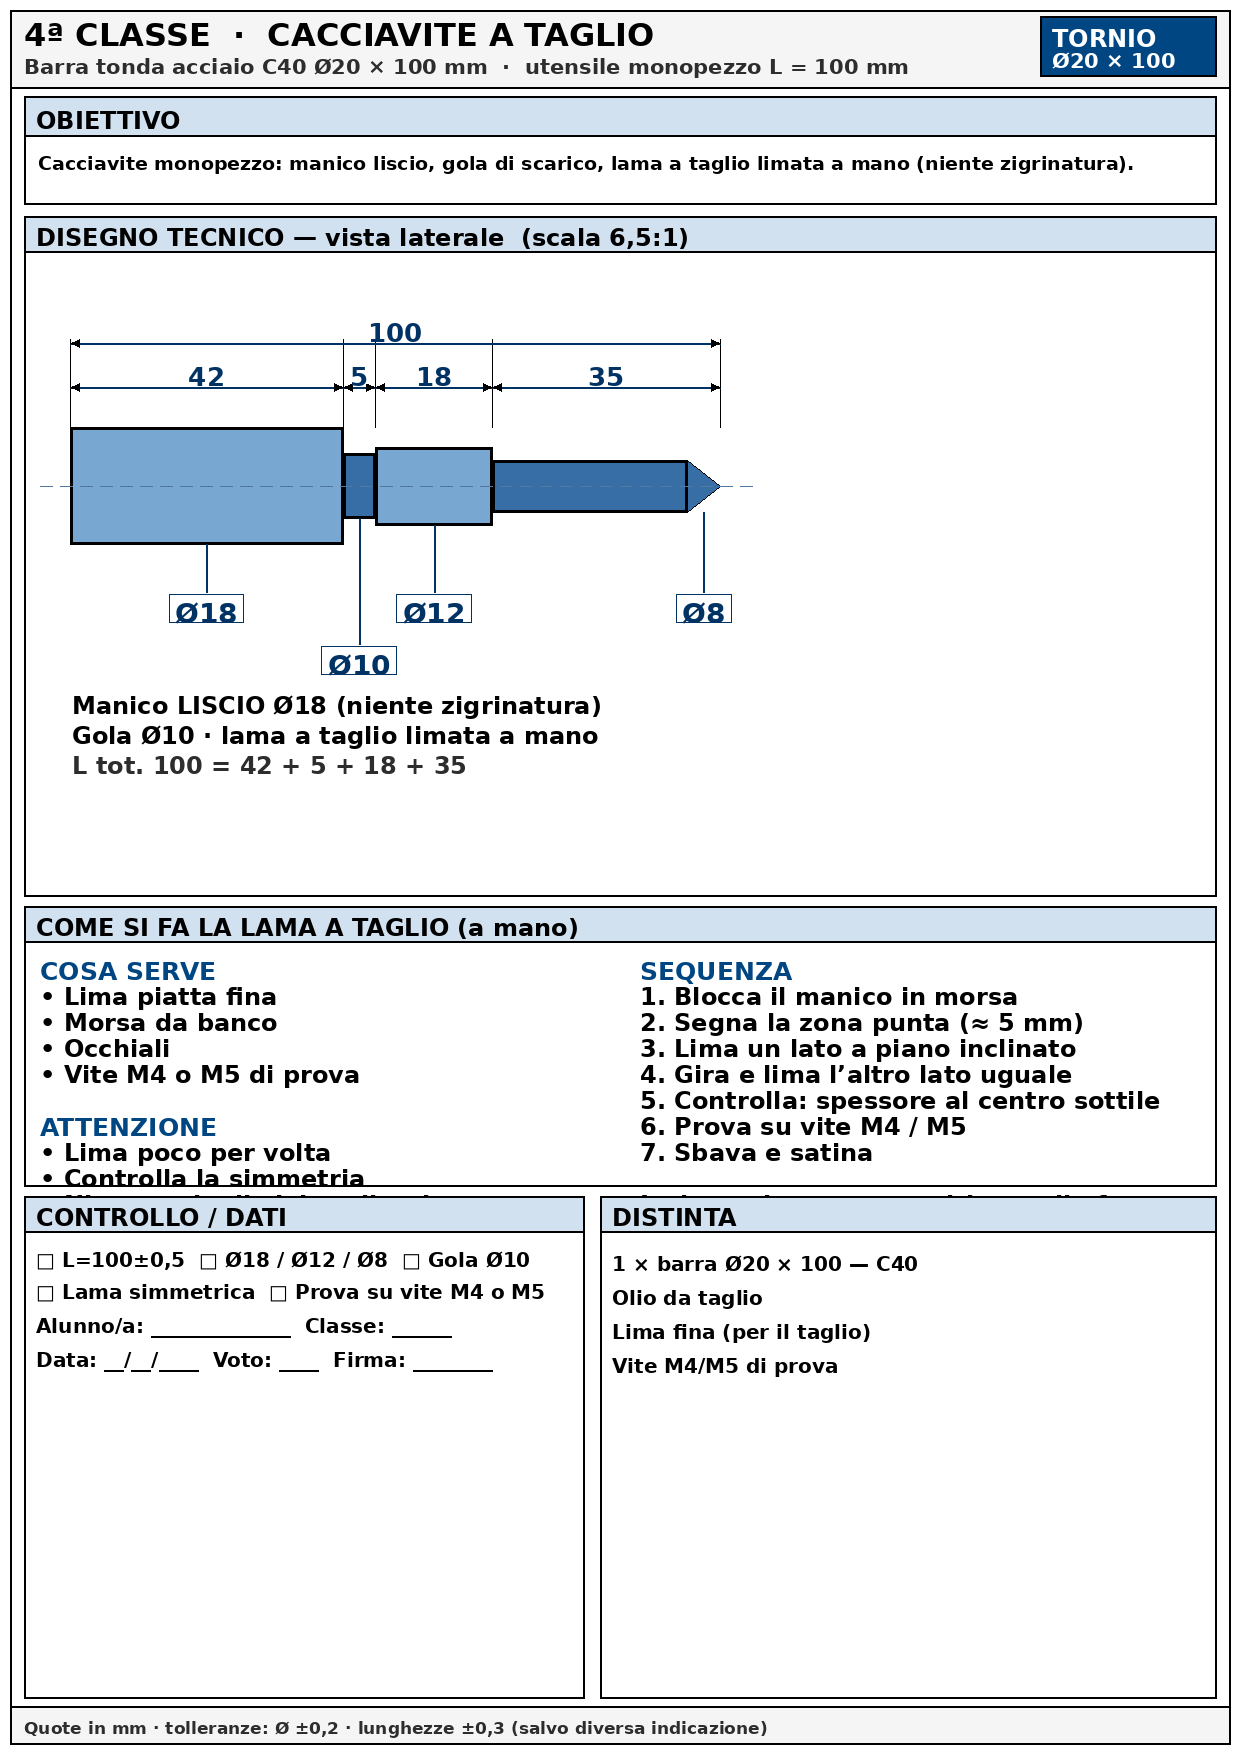
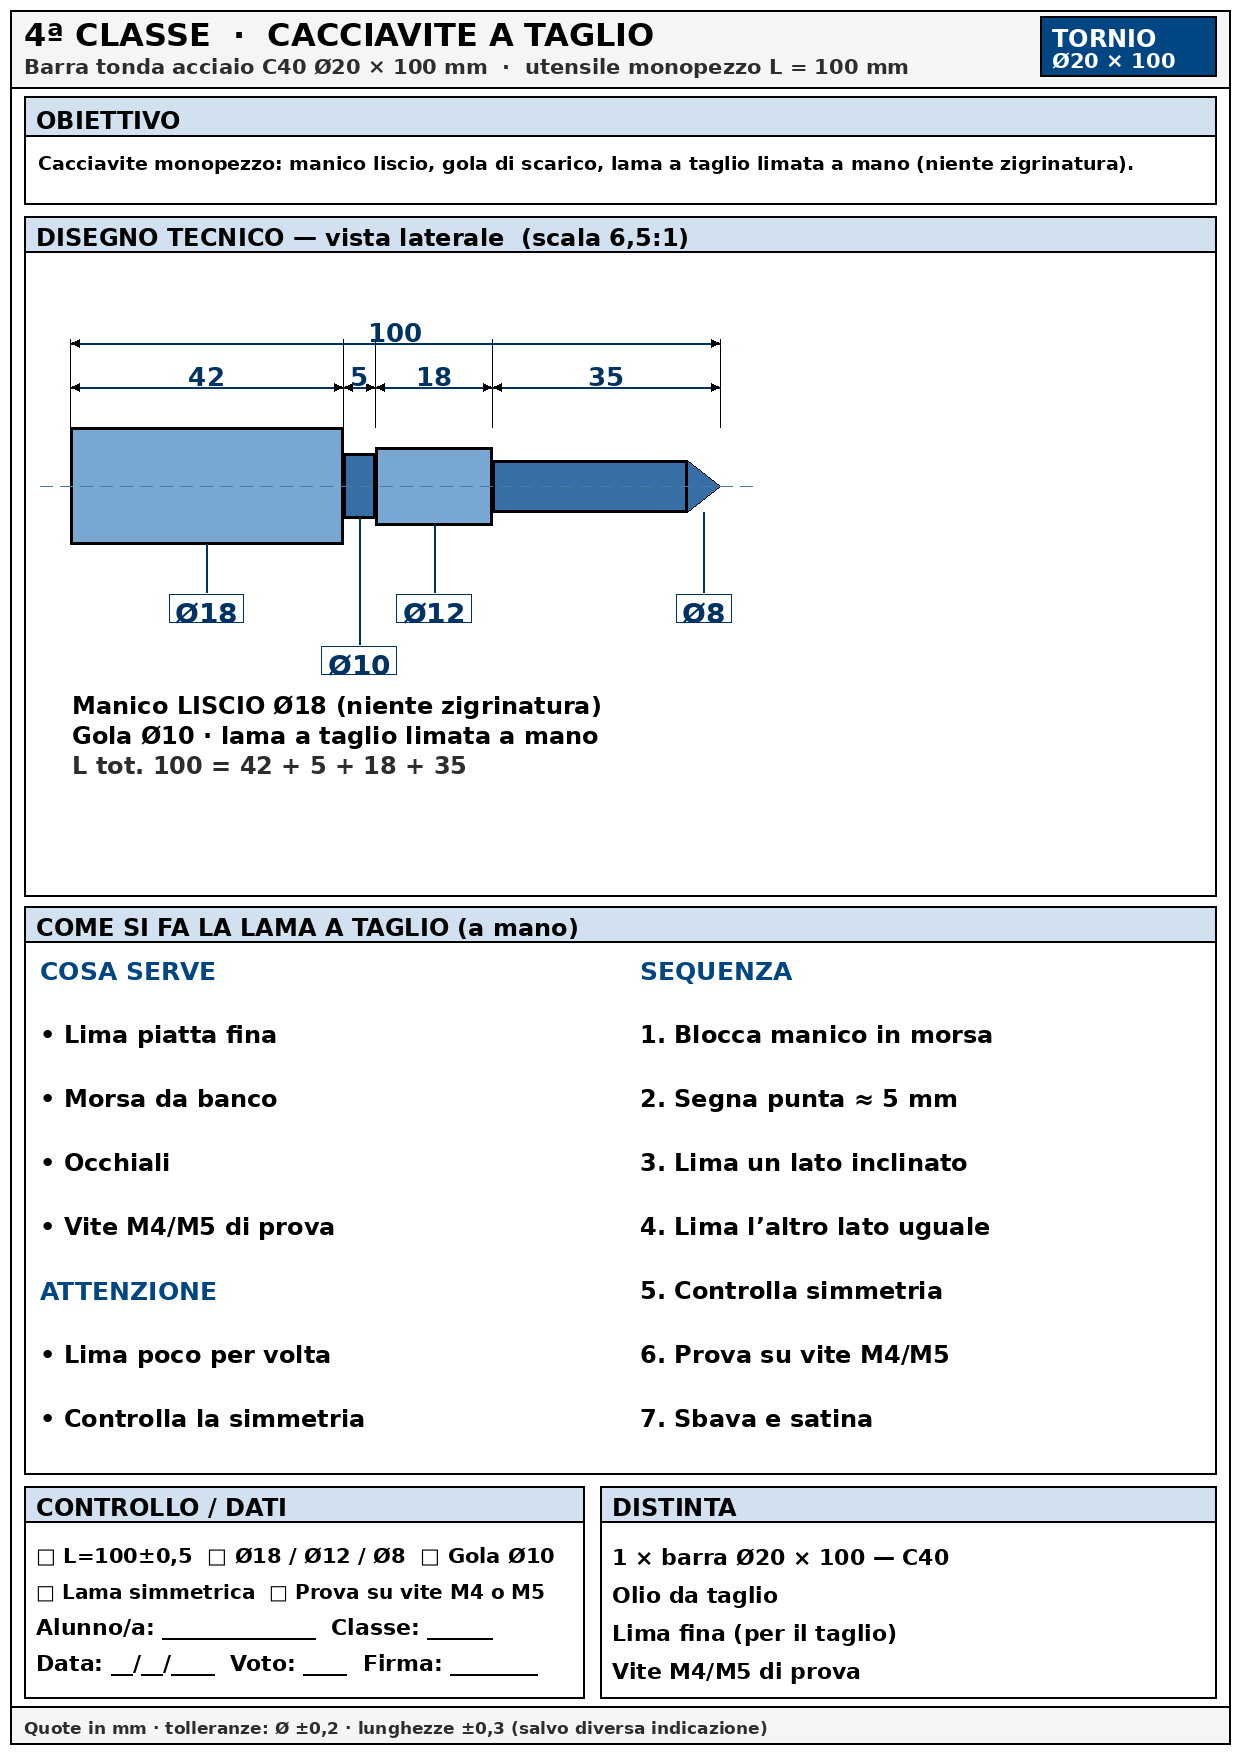
Fix layout cacciavite: pannello lama non taglia più CONTROLLO/DISTINTA.
Diametri del perno spostati sopra l’asse.

Changed region(s): [[0.0, 0.5542, 0.9806, 0.9544], [0.1839, 0.9236, 0.2452, 0.9544]]

diff --git a/progetti-ferro-gallery/generate_ferro.py b/progetti-ferro-gallery/generate_ferro.py
@@ -441,14 +441,15 @@ def make_2a():
     dim_h(d, xs[2][0], xs[2][0] + xs[2][1], q1, "20")
     dim_h(d, ox, end_x, q0, "70")
 
-    # diametri dentro
+    # diametri DENTRO, SOPRA la linea d’asse (niente overlap)
     for (x0s, ww, hh, L, Dia, col), lab in zip(xs, ["Ø18", "Ø14", "Ø10"]):
         tw = d.textlength(lab, font=F16)
         cx = x0s + ww / 2
-        bg = WHITE if Dia < 18 else col
-        fc = DIM_COL if Dia < 18 else WHITE
-        d.rectangle([cx - tw / 2 - 6, mid - 16, cx + tw / 2 + 6, mid + 16], fill=bg)
-        d.text((cx - tw / 2, mid - 12), lab, fill=fc, font=F16)
+        ty = mid - 28  # sopra l’asse
+        bg = WHITE
+        fc = DIM_COL
+        d.rectangle([cx - tw / 2 - 6, ty - 4, cx + tw / 2 + 6, ty + 24], fill=bg, outline=DIM_COL, width=1)
+        d.text((cx - tw / 2, ty), lab, fill=fc, font=F16)
 
     def badge(cx, cy, n, bg):
         d.ellipse([cx - 18, cy - 18, cx + 18, cy + 18], fill=bg, outline=BLACK, width=3)
@@ -753,58 +754,60 @@ def make_4a():
     text_in_box(d, ox, min(ny + 30, max_note_y - 60), W - 80 - ox, 28, "Gola Ø10 · lama a taglio limata a mano", F13, BLACK, pad=2)
     text_in_box(d, ox, min(ny + 60, max_note_y - 30), W - 80 - ox, 28, "L tot. 100 = 42 + 5 + 18 + 35", F13, GRAY, pad=2)
 
-    # Limatura taglio
+    # Limatura taglio — altezza calcolata così NON taglia i pannelli sotto
     zg = draw_top + draw_h + 10
-    zg_h = 280
+    bot_reserve = 220  # spazio per CONTROLLO + DISTINTA + footer
+    zg_h = max(240, FOOT - zg - bot_reserve - 12)
     y = panel(d, 24, zg, W - 48, zg_h, "COME SI FA LA LAMA A TAGLIO (a mano)")
     col1 = [
         "COSA SERVE",
         "• Lima piatta fina",
         "• Morsa da banco",
         "• Occhiali",
-        "• Vite M4 o M5 di prova",
-        "",
+        "• Vite M4/M5 di prova",
         "ATTENZIONE",
         "• Lima poco per volta",
         "• Controlla la simmetria",
-        "• Niente spigoli vivi taglienti",
     ]
     col2 = [
         "SEQUENZA",
-        "1. Blocca il manico in morsa",
-        "2. Segna la zona punta (≈ 5 mm)",
-        "3. Lima un lato a piano inclinato",
-        "4. Gira e lima l’altro lato uguale",
-        "5. Controlla: spessore al centro sottile",
-        "6. Prova su vite M4 / M5",
+        "1. Blocca manico in morsa",
+        "2. Segna punta ≈ 5 mm",
+        "3. Lima un lato inclinato",
+        "4. Lima l’altro lato uguale",
+        "5. Controlla simmetria",
+        "6. Prova su vite M4/M5",
         "7. Sbava e satina",
-        "",
-        "La lama deve entrare dritta nella fessura.",
     ]
+    lh = max(22, (zg_h - 55) // max(len(col1), len(col2)))
     for i, ln in enumerate(col1):
-        if ln in ("COSA SERVE", "ATTENZIONE"):
-            d.text((40, y + 4 + i * 26), ln, fill=ACCENT, font=F14)
-        else:
-            d.text((40, y + 4 + i * 26), ln, fill=BLACK, font=F13)
+        yy = y + 4 + i * lh
+        if yy + 20 > zg + zg_h - 8:
+            break
+        fill = ACCENT if ln in ("COSA SERVE", "ATTENZIONE") else BLACK
+        f = F14 if ln in ("COSA SERVE", "ATTENZIONE") else F13
+        d.text((40, yy), ln, fill=fill, font=f)
     for i, ln in enumerate(col2):
-        if ln == "SEQUENZA":
-            d.text((640, y + 4 + i * 26), ln, fill=ACCENT, font=F14)
-        else:
-            d.text((640, y + 4 + i * 26), ln, fill=BLACK, font=F13)
+        yy = y + 4 + i * lh
+        if yy + 20 > zg + zg_h - 8:
+            break
+        fill = ACCENT if ln == "SEQUENZA" else BLACK
+        f = F14 if ln == "SEQUENZA" else F13
+        d.text((640, yy), ln, fill=fill, font=f)
 
-    bot = zg + zg_h + 10
+    bot = zg + zg_h + 12
     bh = FOOT - bot - 8
     y = panel(d, 24, bot, 560, bh, "CONTROLLO / DATI")
-    text_in_box(d, 32, y + 4, 540, 28, "□ L=100±0,5  □ Ø18 / Ø12 / Ø8  □ Gola Ø10", F13, BLACK, pad=4)
-    text_in_box(d, 32, y + 36, 540, 28, "□ Lama simmetrica  □ Prova su vite M4 o M5", F13, BLACK, pad=4)
-    text_in_box(d, 32, y + 70, 540, 28, "Alunno/a: ______________  Classe: ______", F13, BLACK, pad=4)
-    text_in_box(d, 32, y + 104, 540, 28, "Data: __/__/____  Voto: ____  Firma: ________", F13, BLACK, pad=4)
+    text_in_box(d, 32, y + 8, 540, 30, "□ L=100±0,5  □ Ø18 / Ø12 / Ø8  □ Gola Ø10", F13, BLACK, pad=4)
+    text_in_box(d, 32, y + 44, 540, 30, "□ Lama simmetrica  □ Prova su vite M4 o M5", F13, BLACK, pad=4)
+    text_in_box(d, 32, y + 80, 540, 30, "Alunno/a: ______________  Classe: ______", F13, BLACK, pad=4)
+    text_in_box(d, 32, y + 116, 540, 30, "Data: __/__/____  Voto: ____  Firma: ________", F13, BLACK, pad=4)
 
     y2 = panel(d, 600, bot, W - 24 - 600, bh, "DISTINTA")
-    text_in_box(d, 608, y2 + 8, 580, 28, "1 × barra Ø20 × 100 — C40", F13, BLACK, pad=4)
-    text_in_box(d, 608, y2 + 42, 580, 28, "Olio da taglio", F13, BLACK, pad=4)
-    text_in_box(d, 608, y2 + 76, 580, 28, "Lima fina (per il taglio)", F13, BLACK, pad=4)
-    text_in_box(d, 608, y2 + 110, 580, 28, "Vite M4/M5 di prova", F13, BLACK, pad=4)
+    text_in_box(d, 608, y2 + 10, 560, 30, "1 × barra Ø20 × 100 — C40", F13, BLACK, pad=4)
+    text_in_box(d, 608, y2 + 48, 560, 30, "Olio da taglio", F13, BLACK, pad=4)
+    text_in_box(d, 608, y2 + 86, 560, 30, "Lima fina (per il taglio)", F13, BLACK, pad=4)
+    text_in_box(d, 608, y2 + 124, 560, 30, "Vite M4/M5 di prova", F13, BLACK, pad=4)
 
     save(img, "03-4a-cacciavite.png", "STAMPA-4a-cacciavite.png")
 
